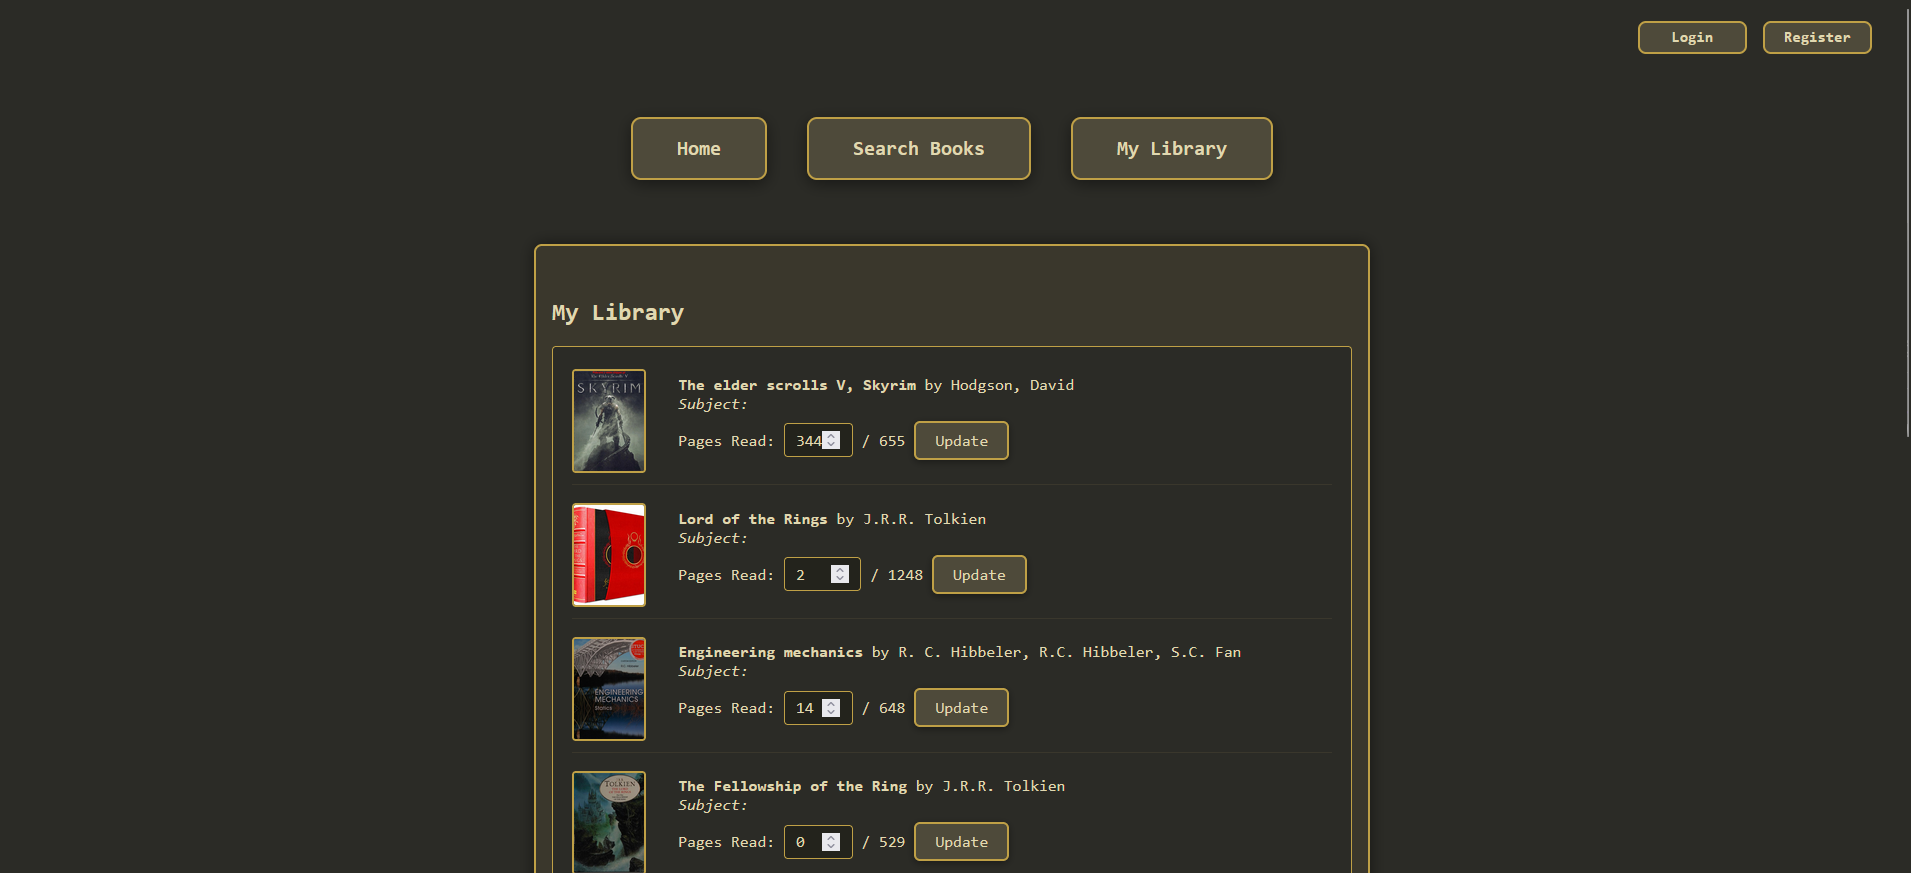
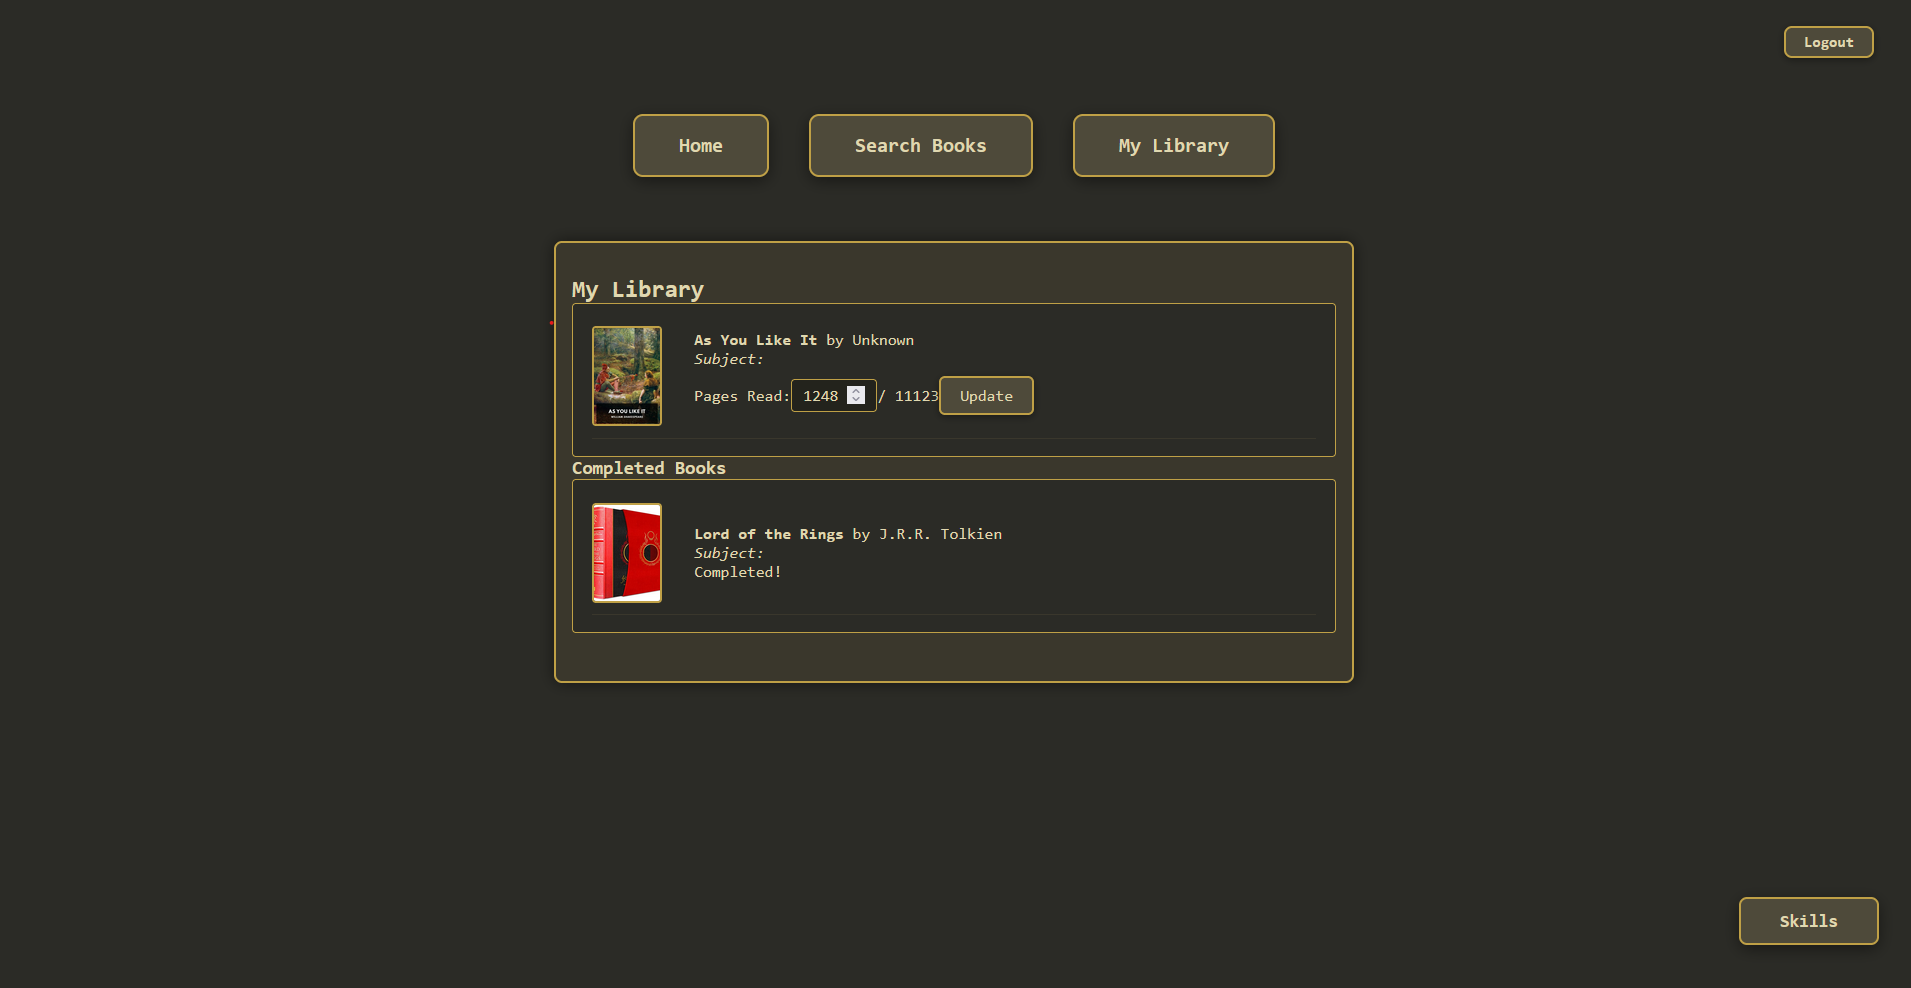
Update Readme and new UI screenshots

diff --git a/README.md b/README.md
@@ -12,11 +12,12 @@ Let's admit it. Learning is hard. And for people whose hobby is learning new thi
 - Store your progress in a relational database for persistence
 - User registration and login with secure password hashing
 - Session-based authentication using Passport.js
+- React SPA Functionality!
 
 ## Tech Stack
 - PostgreSQL
 - ExpressJS
-- EJS
+- React
 - NodeJS
 - Passport.js (authentication)
 - bcrypt (password hashing)
